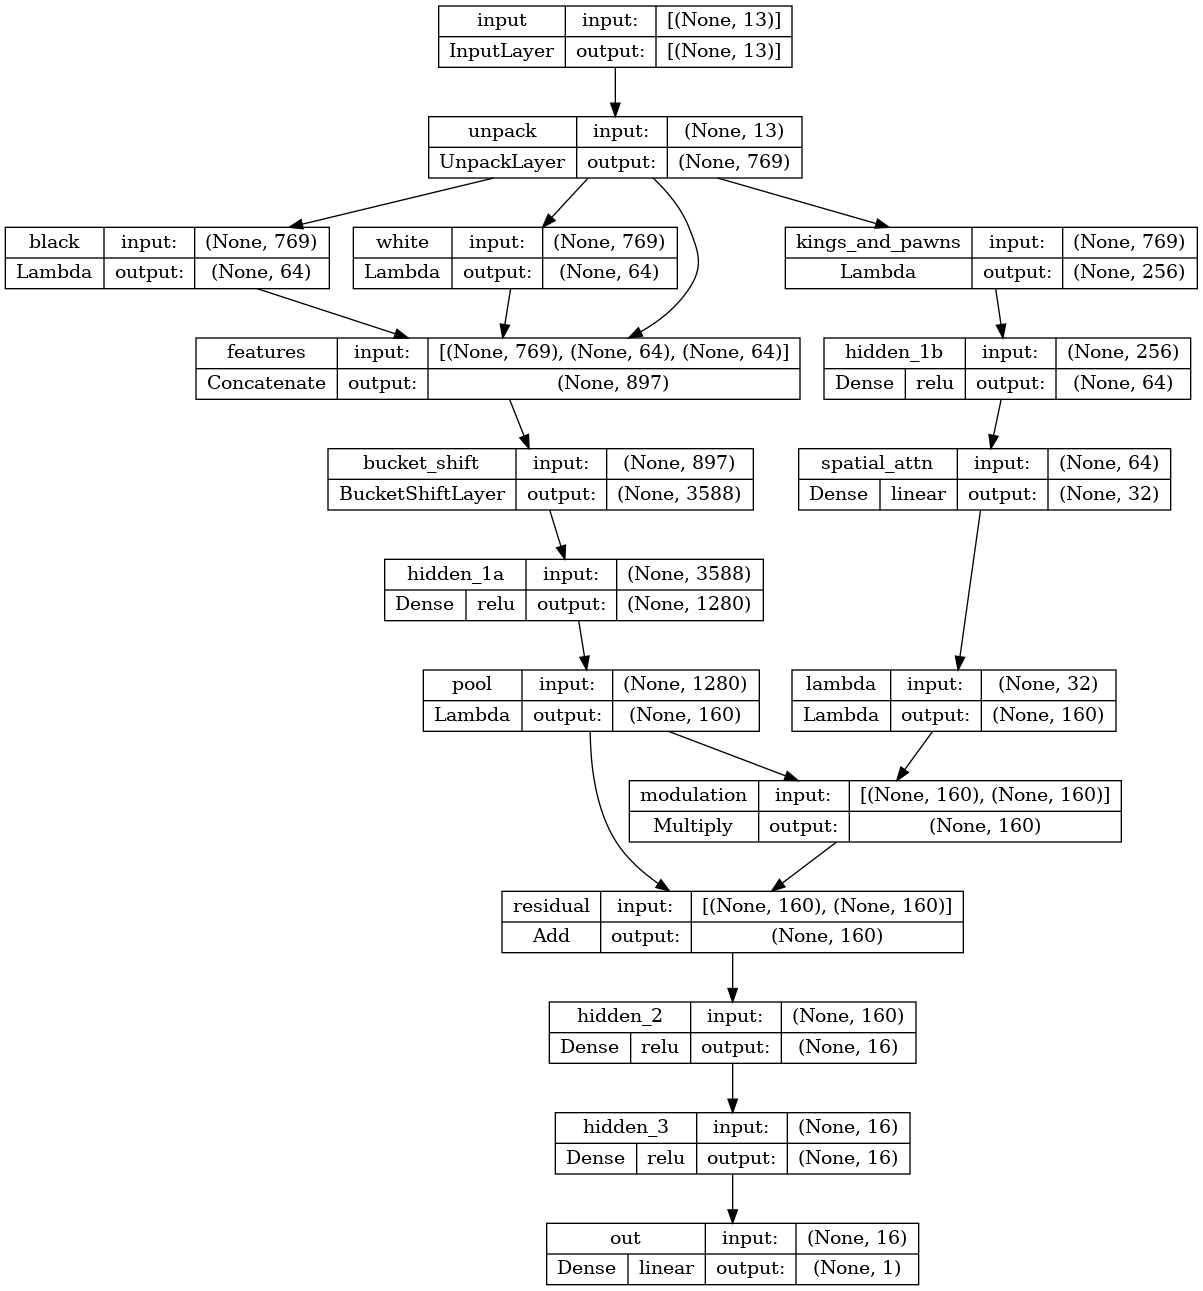
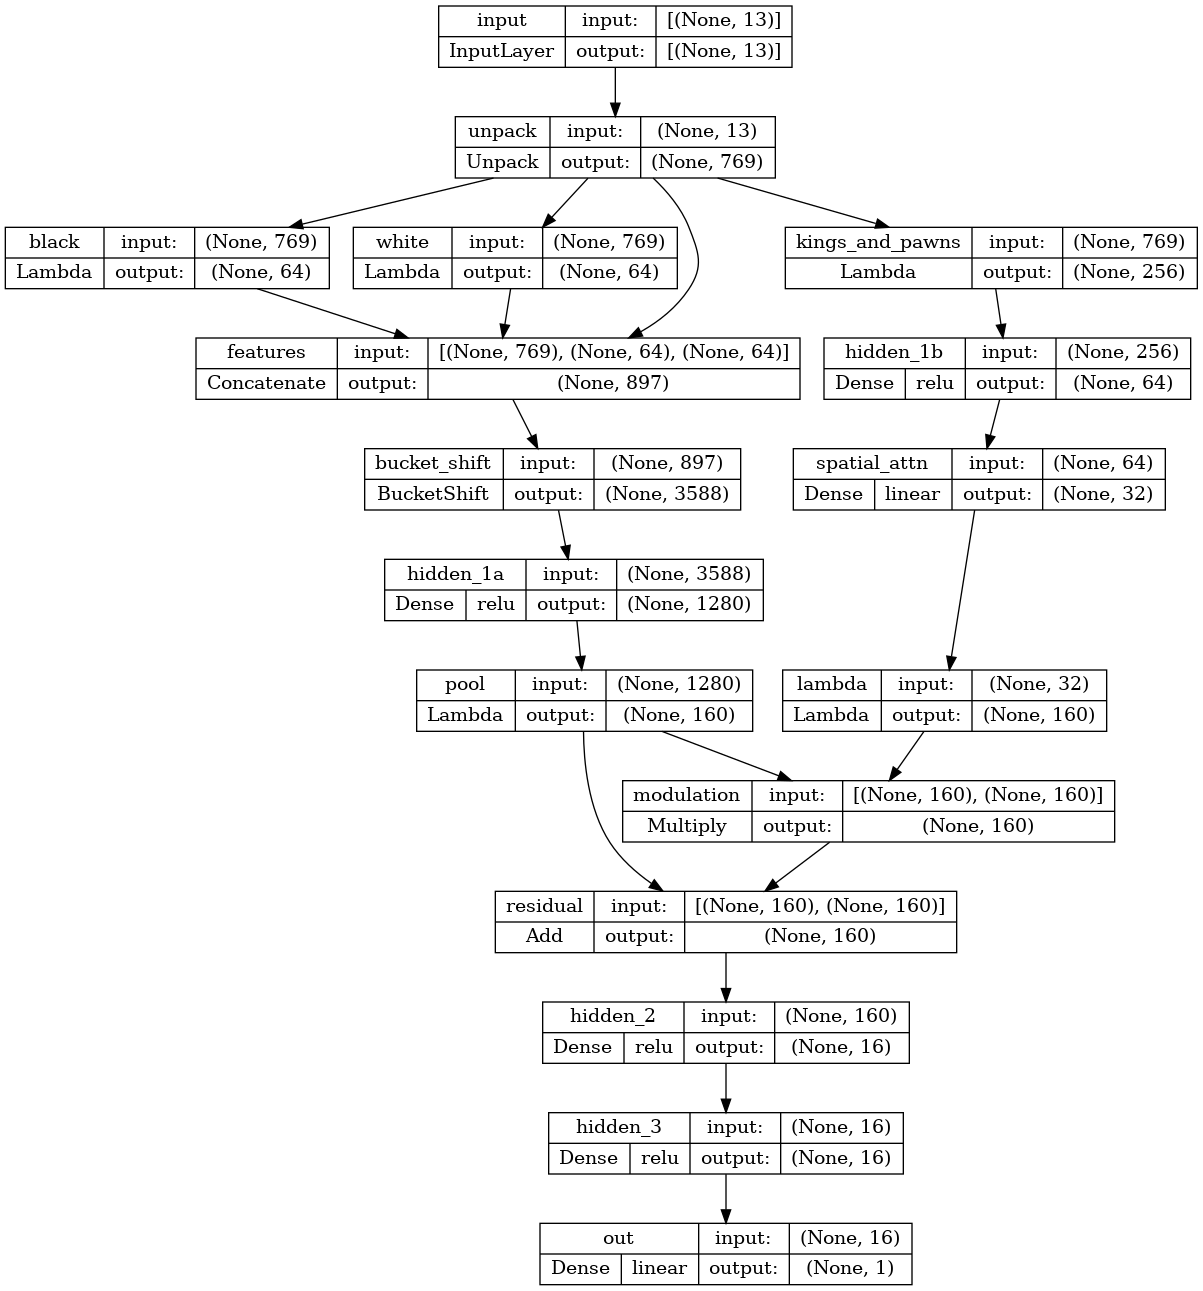
update diagram, rename custom layer classes

diff --git a/tools/nnue/train.py b/tools/nnue/train.py
@@ -111,9 +111,9 @@ def make_model(args, strategy):
         return loss
 
 
-    class UnpackLayer(tf.keras.layers.Layer):
+    class Unpack(tf.keras.layers.Layer):
         def __init__(self, num_outputs, **kwargs):
-            super(UnpackLayer, self).__init__(**kwargs)
+            super(Unpack, self).__init__(**kwargs)
             self.num_outputs = num_outputs
 
         def call(self, packed):
@@ -122,7 +122,7 @@ def make_model(args, strategy):
             f = tf.concat([tf_unpack_bits(bitboards), turn], axis=1)
             return tf.cast(f, tf.float32)
 
-    class BucketShiftLayer(tf.keras.layers.Layer):
+    class BucketShift(tf.keras.layers.Layer):
         def call(self, features):
             # Extract already-unpacked pawn bits from features
             # Pawns are pieces index 2 (white) and 3 (black) in the 12 bitboards
@@ -159,7 +159,7 @@ def make_model(args, strategy):
 
         # Define the input layer
         input_layer = Input(shape=(13,), dtype=tf.uint64, name='input')
-        unpack_layer = UnpackLayer(args.hot_encoding, name='unpack')(input_layer)
+        unpack_layer = Unpack(args.hot_encoding, name='unpack')(input_layer)
 
         def black_occupied_mask(x):
             mask = tf.zeros_like(x[:, :64])
@@ -181,7 +181,7 @@ def make_model(args, strategy):
         concat = Concatenate(name='features')([unpack_layer, black_occupied, white_occupied])
 
         # Apply bucketing
-        bucketed = BucketShiftLayer(name='bucket_shift')(concat)
+        bucketed = BucketShift(name='bucket_shift')(concat)
 
         constr_a = QConstraint(Q_MIN_A, Q_MAX_A)
         hidden_1a = Dense(
